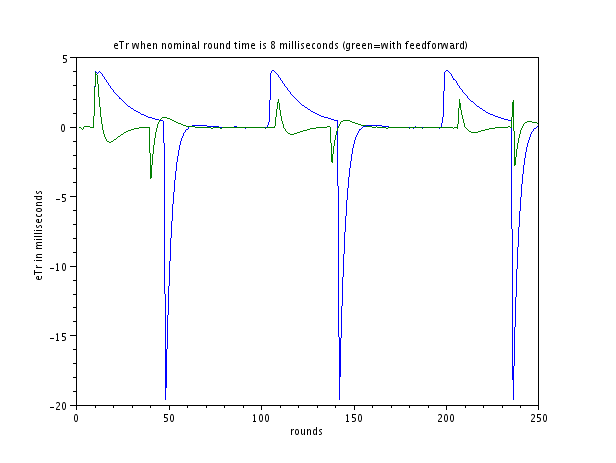
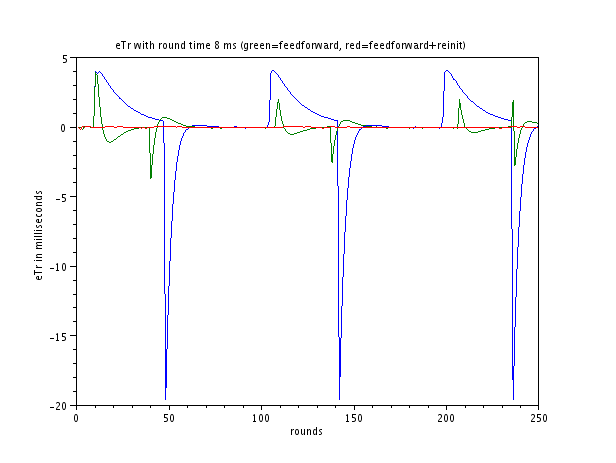
Implemented regulator reinitialization on the fly

Changed region(s): [[0.1851, 0.0907, 0.7711, 0.121]]

diff --git a/STM32_wireless-communication/miosix/kernel/scheduler/control/control_scheduler.h b/STM32_wireless-communication/miosix/kernel/scheduler/control/control_scheduler.h
@@ -33,6 +33,7 @@
 #include "parameters.h"
 #include "kernel/kernel.h"
 #include <list>
+#include <algorithm>
 
 #ifdef SCHED_TYPE_CONTROL_BASED
 
@@ -161,6 +162,63 @@ private:
      */
     static void IRQrecalculateAlfa();
 
+    /**
+     * Called by IRQfindNextThread(), this function is where the control based
+     * scheduling algorithm is run. It is called once per round.
+     */
+    static void IRQrunRegulator(bool allReadyThreadsSaturated)
+    {
+        using namespace std;
+        if(reinitRegulator==false)
+        {
+            int eTr=SP_Tr-Tr;
+            int bc=bco+static_cast<int>(krr*eTr-krr*zrr*eTro);
+            if(allReadyThreadsSaturated)
+            {
+                //If all inner regulators reached upper saturation,
+                //allow only a decrease in the burst correction.
+                if(bc<bco) bco=bc;
+            } else bco=bc;
+
+            bco=min(max(bco,-Tr),static_cast<int>(bMax*threadList.size()));
+            float nextRoundTime=static_cast<float>(Tr+bco);
+            eTro=eTr;
+            Tr=0;//Reset round time
+            list<Thread *>::iterator it;
+            for(it=threadList.begin();it!=threadList.end();++it)
+            {
+                //Recalculate per thread set point
+                (*it)->schedData.SP_Tp=static_cast<int>(
+                        (*it)->schedData.alfa*nextRoundTime);
+
+                //Run each thread internal regulator
+                int eTp=(*it)->schedData.SP_Tp - (*it)->schedData.Tp;
+                //note: since b and bo contain the real value multiplied by
+                //multFactor, this equals b=bo+eTp/multFactor.
+                int b=(*it)->schedData.bo + eTp;
+                //saturation
+                (*it)->schedData.bo=min(max(b,bMin*multFactor),bMax*multFactor);
+            }
+        } else {
+            reinitRegulator=false;
+            Tr=0;//Reset round time
+            //Reset state of the external regulator
+            eTro=0;
+            bco=0;
+
+            list<Thread *>::iterator it;
+            for(it=threadList.begin();it!=threadList.end();++it)
+            {
+                //Recalculate per thread set point
+                (*it)->schedData.SP_Tp=static_cast<int>(
+                        (*it)->schedData.alfa*SP_Tr);
+
+                int b=(*it)->schedData.SP_Tp*multFactor;
+                (*it)->schedData.bo=min(max(b,bMin*multFactor),bMax*multFactor);
+            }
+        }
+    }
+
     ///\internal Threads (except idle thread) are stored here
     static std::list<Thread *> threadList;
 
@@ -182,6 +240,10 @@ private:
 
     ///\internal old round tome error
     static int eTro;
+
+    ///\internal set to true by IRQrecalculateAlfa() to signal that
+    ///due to a change in alfa the regulator needs to be reinitialized
+    static bool reinitRegulator;
 };
 
 } //namespace miosix

diff --git a/STM32_wireless-communication/miosix/kernel/scheduler/control/control_scheduler.cpp b/STM32_wireless-communication/miosix/kernel/scheduler/control/control_scheduler.cpp
@@ -27,7 +27,6 @@
 
 #include "control_scheduler.h"
 #include "kernel/error.h"
-#include <algorithm>
 
 using namespace std;
 
@@ -172,33 +171,7 @@ void ControlScheduler::IRQfindNextThread()
 
             //End of round reached, run scheduling algorithm
             curInRound=threadList.begin();
-            int eTr=SP_Tr-Tr;
-            int bc=bco+static_cast<int>(krr*eTr-krr*zrr*eTro);
-            if(allReadyThreadsSaturated)
-            {
-                //If all inner regulators reached upper saturation,
-                //allow only a decrease in the burst correction.
-                if(bc<bco) bco=bc;
-            } else bco=bc;
-
-            bco=min(max(bco,-Tr),static_cast<int>(bMax*threadList.size()));
-            float nextRoundTime=static_cast<float>(Tr+bco);
-            eTro=eTr;
-            Tr=0;//Reset round time
-            for(it=threadList.begin();it!=threadList.end();++it)
-            {
-                //Recalculate per thread set point
-                (*it)->schedData.SP_Tp=static_cast<int>(
-                        (*it)->schedData.alfa*nextRoundTime);
-
-                //Run each thread internal regulator
-                int eTp=(*it)->schedData.SP_Tp - (*it)->schedData.Tp;
-                //note: since b and bo contain the real value multiplied by
-                //multFactor, this equals b=bo+eTp/multFactor.
-                int b=(*it)->schedData.bo + eTp;
-                //saturation
-                (*it)->schedData.bo=min(max(b,bMin*multFactor),bMax*multFactor);
-            }
+            IRQrunRegulator(allReadyThreadsSaturated);
         }
 
         if((*curInRound)->flags.isReady())
@@ -251,6 +224,7 @@ void ControlScheduler::IRQrecalculateAlfa()
         (*it)->schedData.alfa=base*((float)((*it)->schedData.priority.get()+1));
         #endif //ENABLE_FEEDFORWARD
     }
+    reinitRegulator=true;
 }
 
 std::list<Thread *> ControlScheduler::threadList;
@@ -260,6 +234,7 @@ int ControlScheduler::SP_Tr=0;
 int ControlScheduler::Tr=bNominal;
 int ControlScheduler::bco=0;
 int ControlScheduler::eTro=0;
+bool ControlScheduler::reinitRegulator=false;
 
 } //namespace miosix
 
